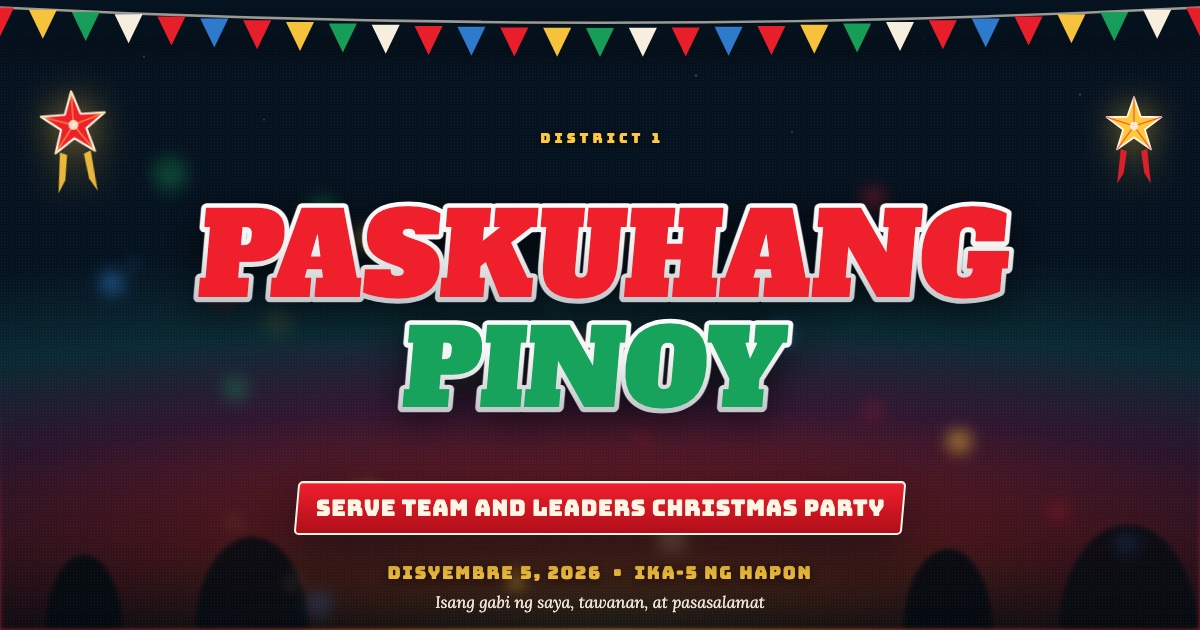
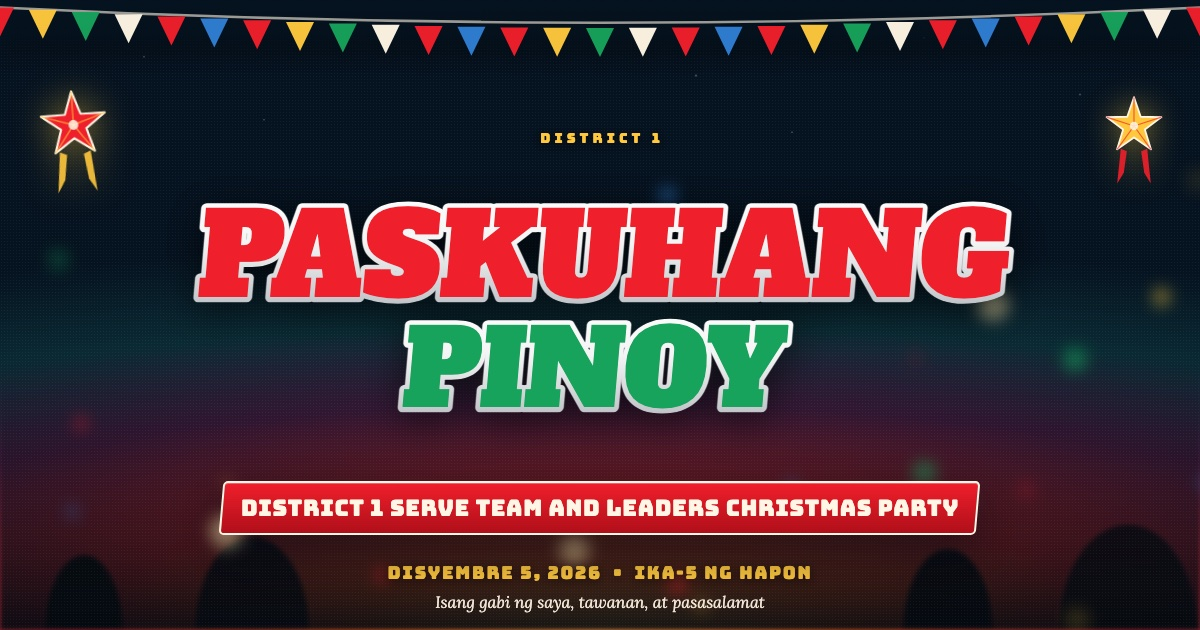
Hero ribbon: District 1 Serve Team and Leaders Christmas Party

diff --git a/index.html b/index.html
@@ -13,7 +13,7 @@
 <meta property="og:type" content="website">
 <meta property="og:title" content="Paskuhang Pinoy — Serve Team &amp; Leaders Christmas Party">
 <meta property="og:description" content="Disyembre 5, 2026 • Ika-5 ng hapon. Isang gabi ng saya, tawanan, at pasasalamat. Kita-kits!">
-<meta property="og:image" content="https://victory-pulilan.github.io/paskuhang-pinoy/assets/img/og-cover.jpg?v=2">
+<meta property="og:image" content="https://victory-pulilan.github.io/paskuhang-pinoy/assets/img/og-cover.jpg?v=3">
 <meta property="og:locale" content="fil_PH">
 <meta name="twitter:card" content="summary_large_image">
 
@@ -23,7 +23,7 @@
 <link rel="preconnect" href="https://fonts.googleapis.com">
 <link rel="preconnect" href="https://fonts.gstatic.com" crossorigin>
 <link href="https://fonts.googleapis.com/css2?family=Alfa+Slab+One&family=Bungee&family=Lora:ital,wght@0,400;0,600;1,400&family=Caveat:wght@700&display=swap" rel="stylesheet">
-<link rel="stylesheet" href="assets/css/style.css?v=202611201734">
+<link rel="stylesheet" href="assets/css/style.css?v=202611201737">
 </head>
 <body>
 
@@ -56,7 +56,7 @@
     </g>
   </svg>
 
-  <div class="ribbon"><b>Serve Team and Leaders Christmas Party</b></div>
+  <div class="ribbon"><b>District 1 Serve Team and Leaders Christmas Party</b></div>
   <p class="when">Disyembre 5, 2026 &nbsp;•&nbsp; Ika-5 ng Hapon</p>
   <p class="where">Isang gabi ng saya, tawanan, at pasasalamat</p>
 
@@ -204,6 +204,6 @@
   <small>District 1 • Serve Team and Leaders Christmas Party</small>
 </footer>
 
-<script src="assets/js/main.js?v=202611201734"></script>
+<script src="assets/js/main.js?v=202611201737"></script>
 </body>
 </html>
